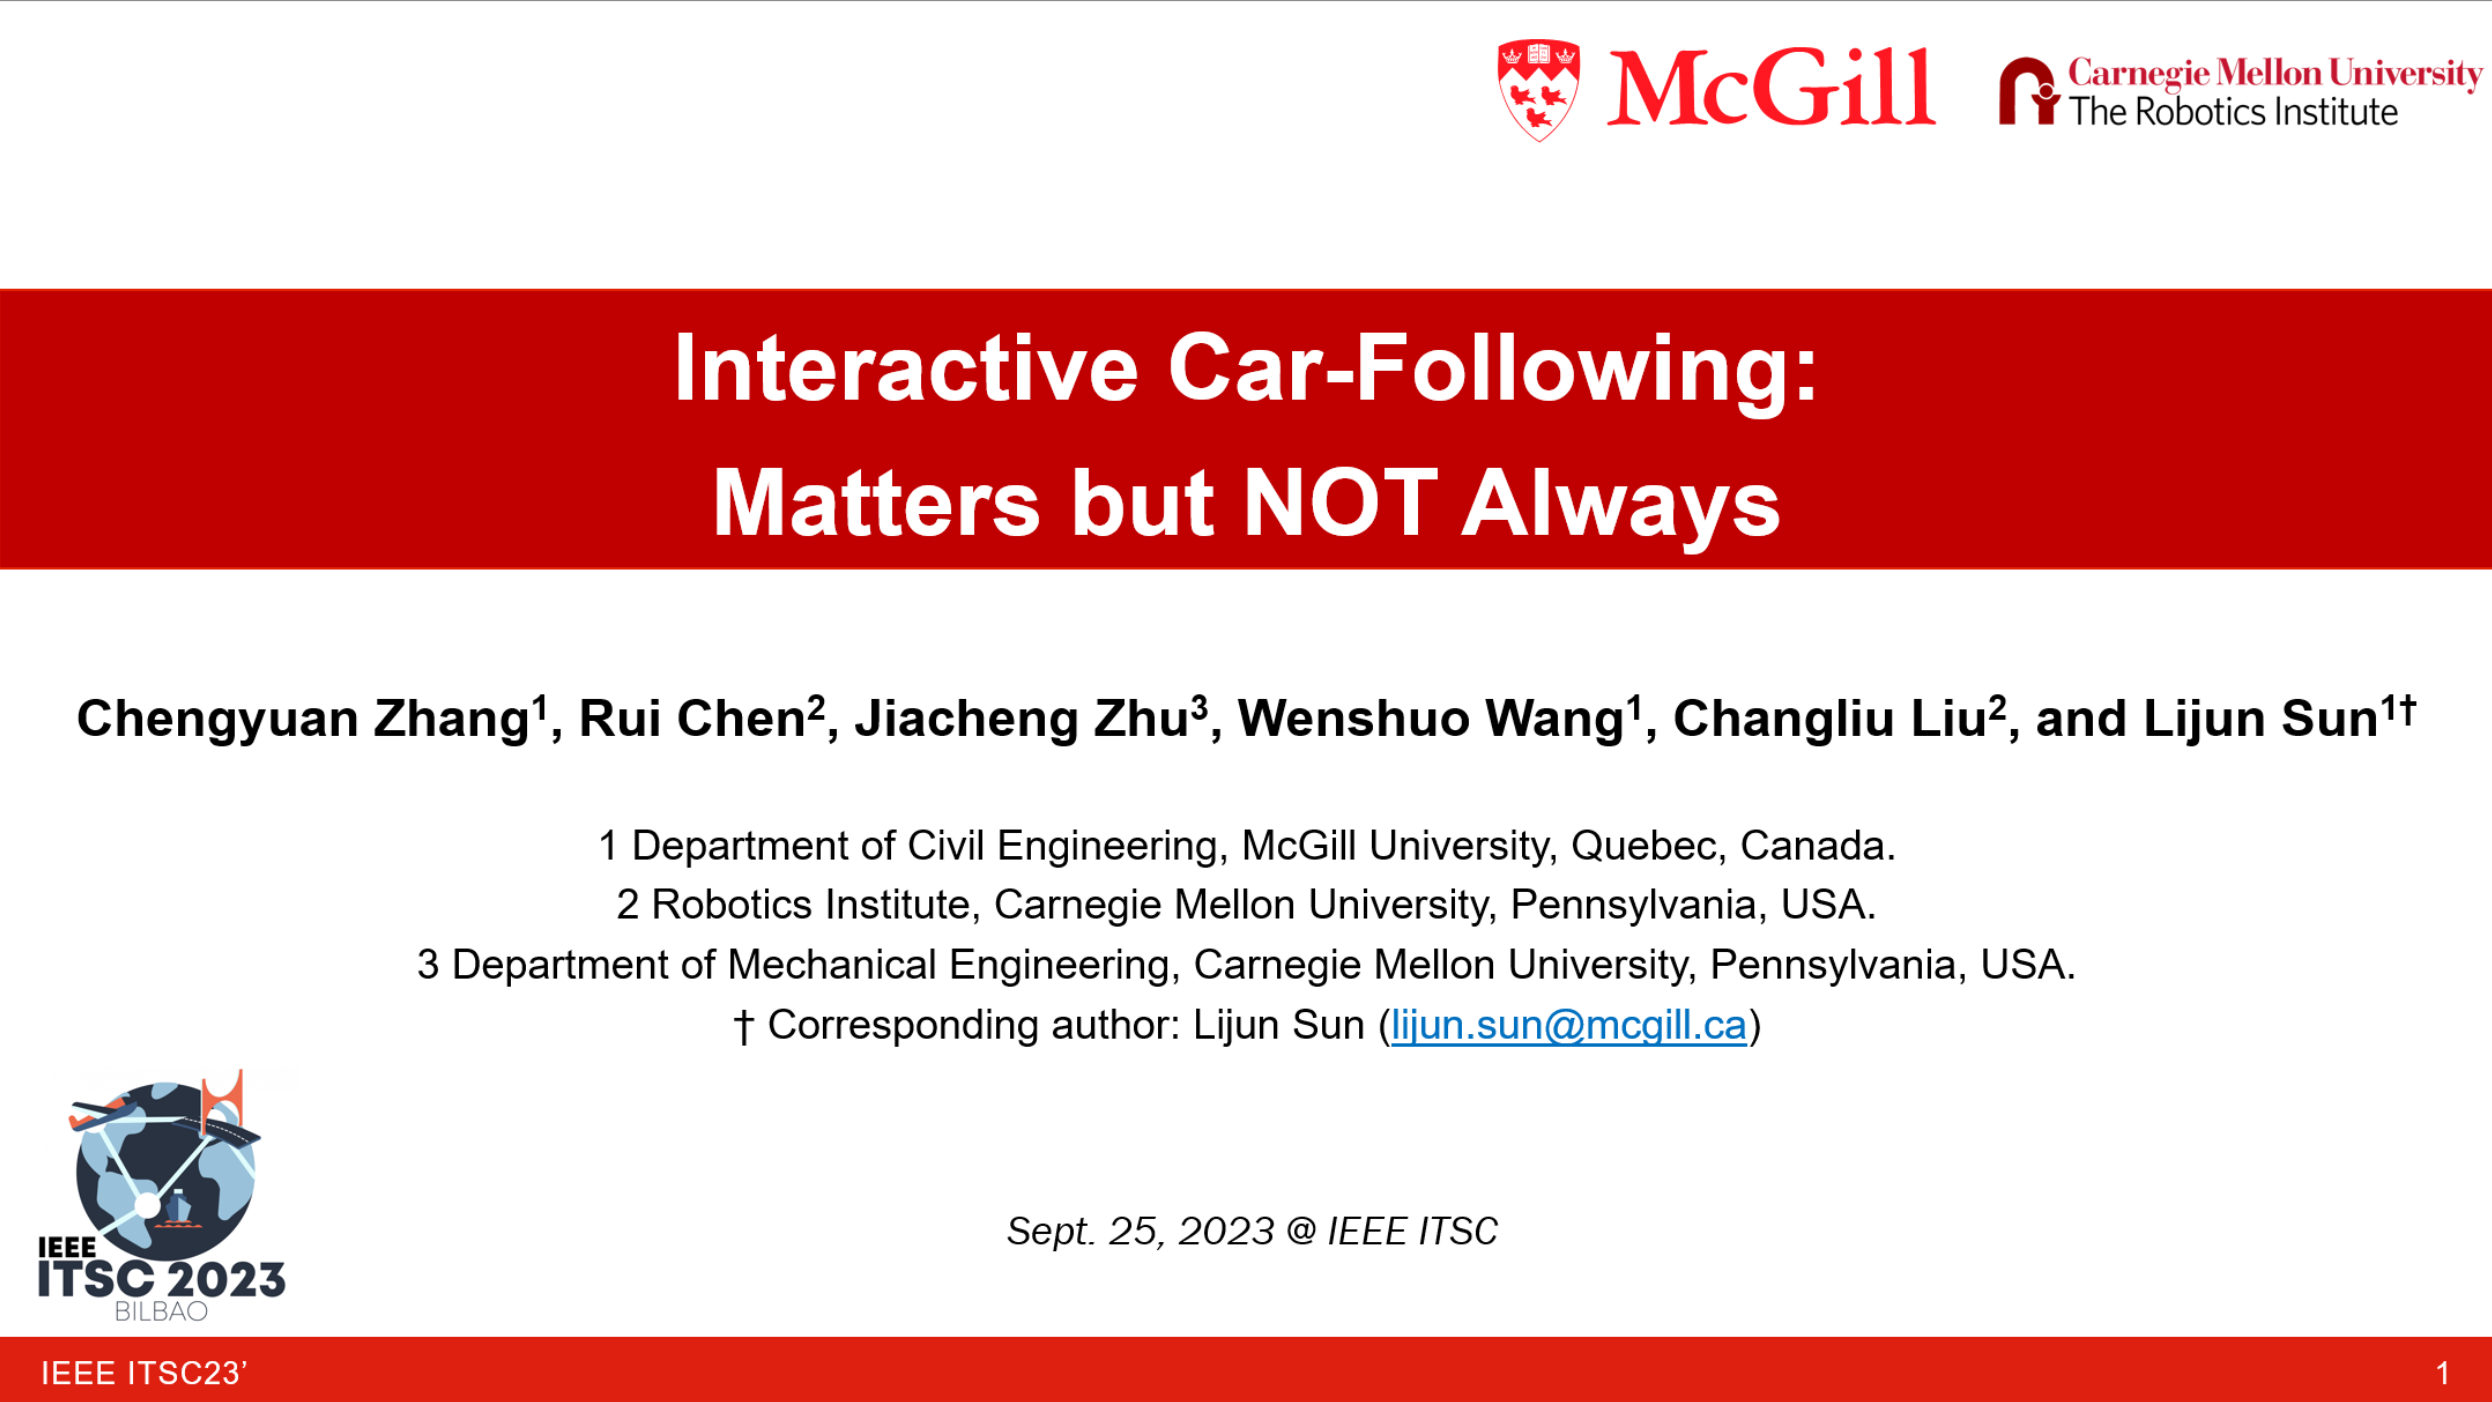
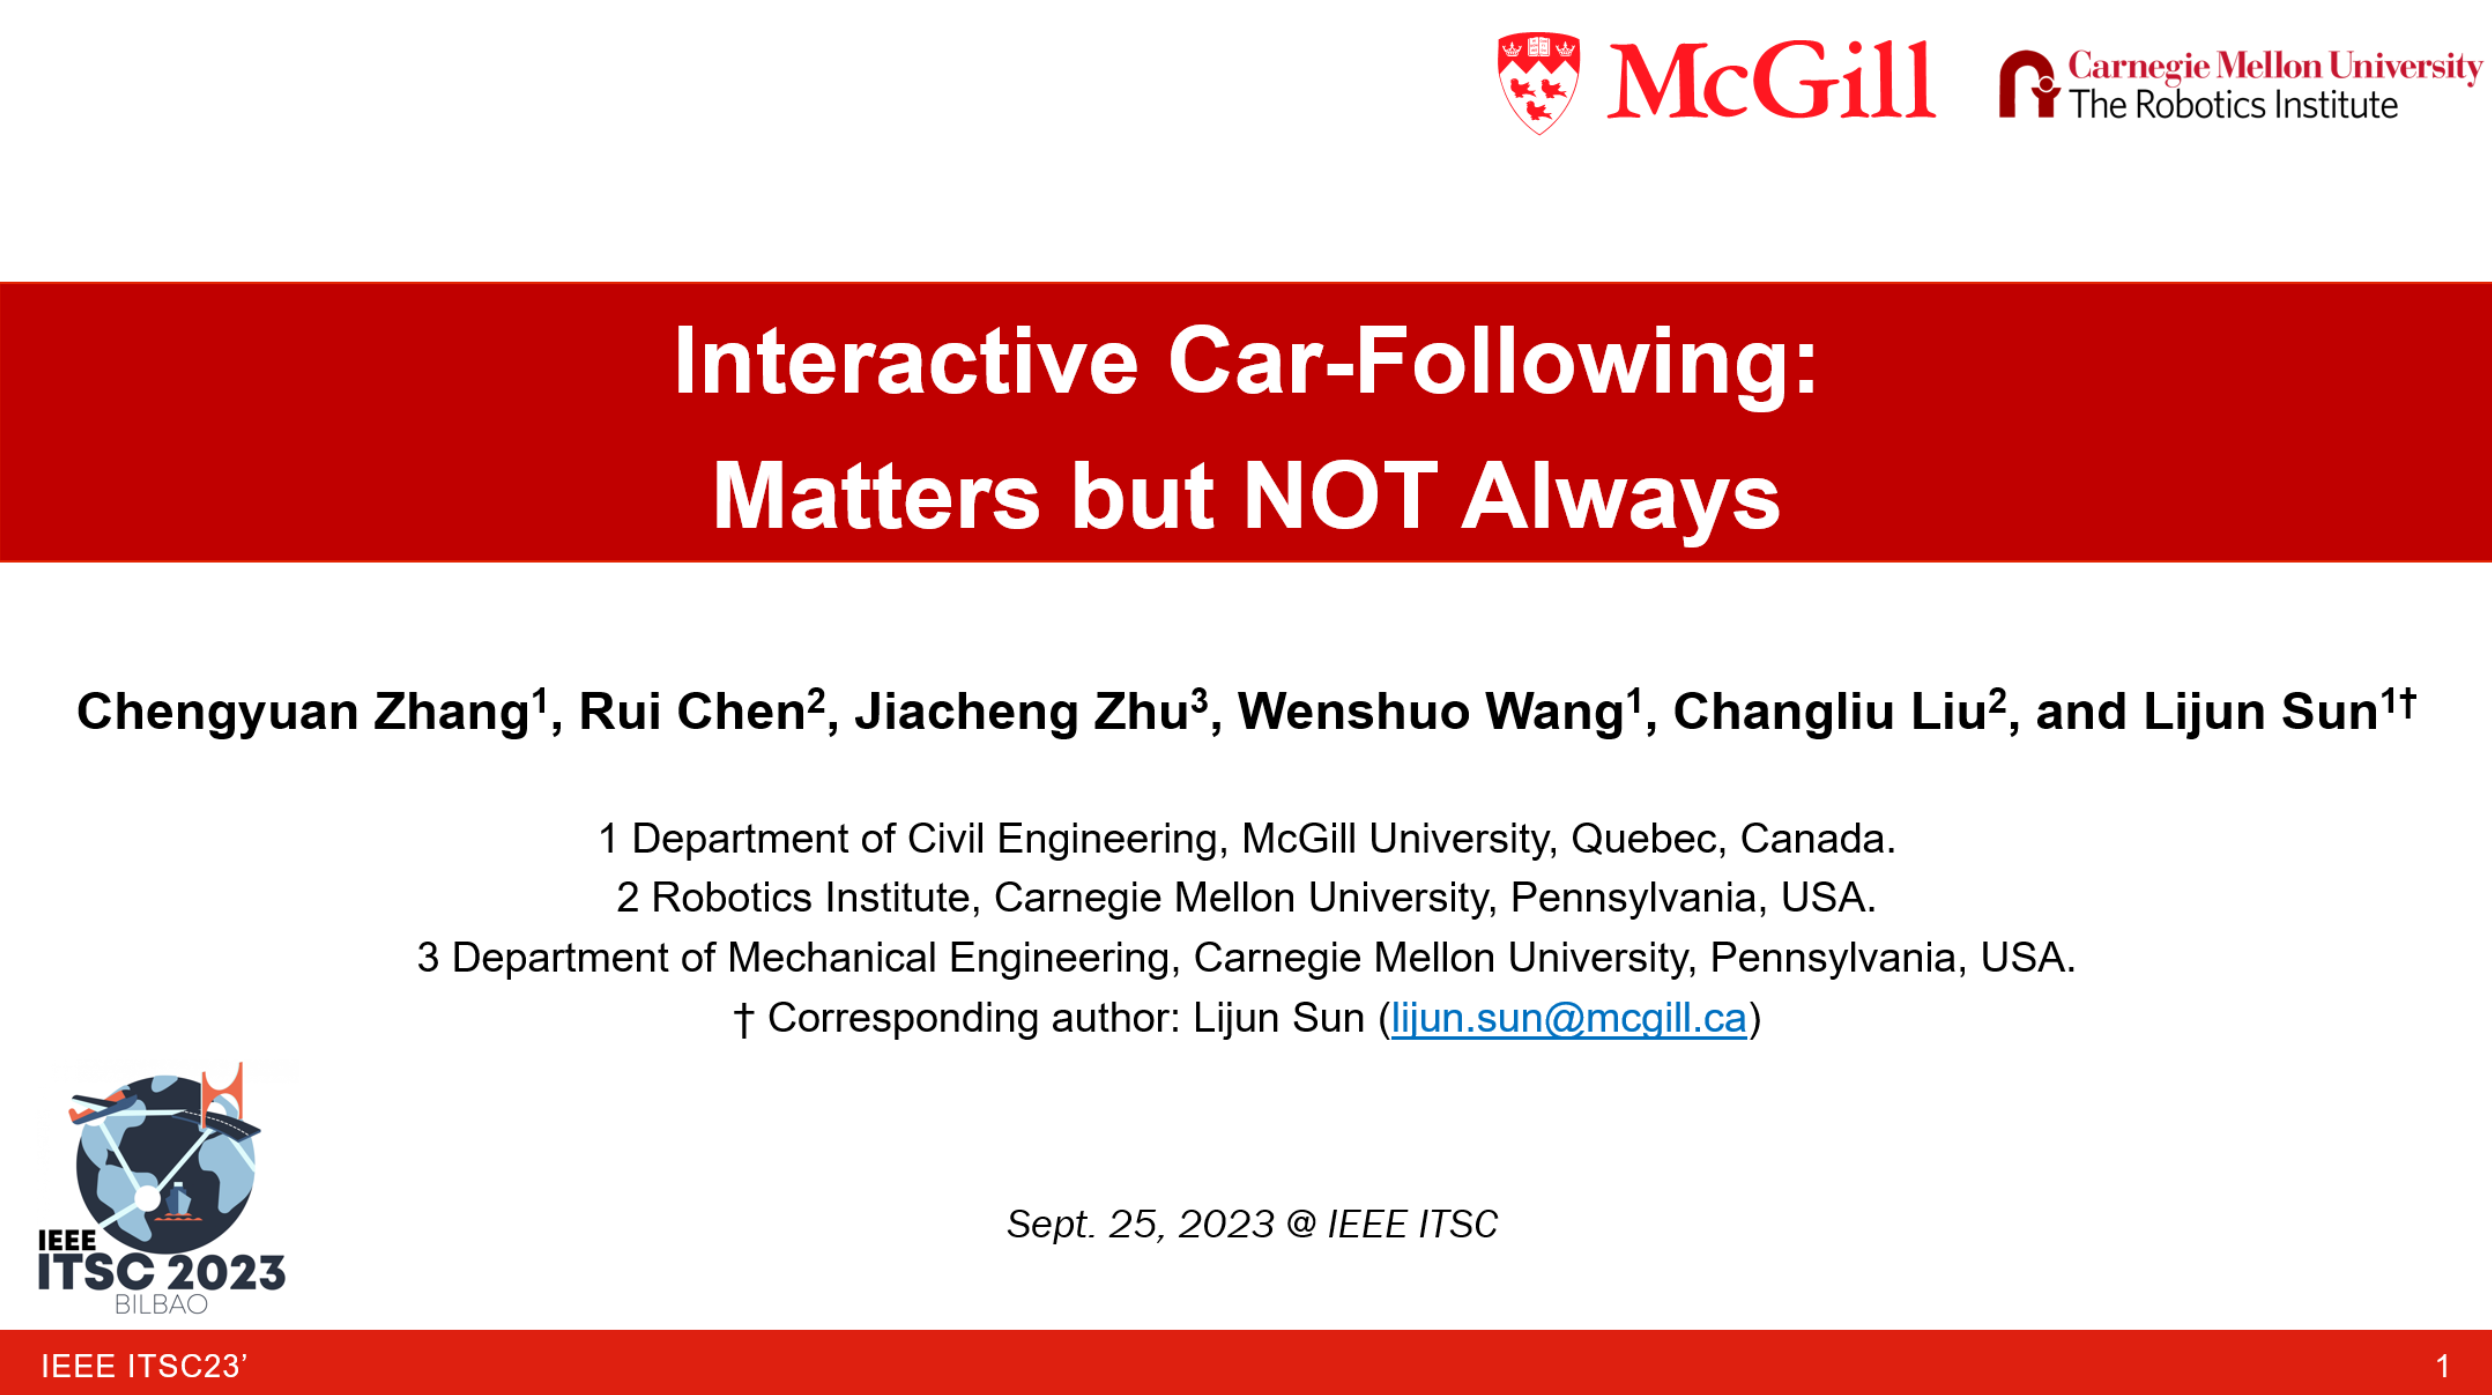
try

diff --git a/_pages/talks.md b/_pages/talks.md
@@ -17,20 +17,20 @@ June. 2024, Jeju Shinhwa World, Jeju Island, Korea \
 Conference Podium Presentation @ 35th IEEE Intelligent Vehicles Symposium (IEEE IV 2024)
 
 <center>
-  <img src="../images/iv24.png" width="70%" />
+  <img src="../images/iv24.png" width="75%" />
 </center>
 
 ## Interactive Car-Following: Matters but NOT Always
 Sept. 2023, Bilbao, Bizkaia, Spain \
 Conference Podium Presentation @ 26th IEEE International Conference on Intelligent Transportation Systems (IEEE ITSC 2023)
 <center>
-  <img src="../images/itsc2023.png" width="70%" />
+  <img src="../images/itsc2023.png" width="75%" />
 </center>
 
 ## Bayesian Calibration of the IDM
 Feb. 2023, Online\
 Invited Talk @ Traffic Flow Theory and Characteristics (ACP50) general webinar series [[flyer](../_talks/230217_Chengyuan_Zhang_Flyer.pdf)] [[recording](https://youtu.be/GIqcL6I7MsU)]
-<iframe width="640" height="400" src="https://www.youtube.com/embed/GIqcL6I7MsU" title="Chengyuan Zhang: Bayesian Calibration of the Intelligent Driver Model | TFTC General Webinar Series" frameborder="0" allow="accelerometer; autoplay; clipboard-write; encrypted-media; gyroscope; picture-in-picture; web-share" allowfullscreen></iframe>
+<iframe width="70%" src="https://www.youtube.com/embed/GIqcL6I7MsU" title="Chengyuan Zhang: Bayesian Calibration of the Intelligent Driver Model | TFTC General Webinar Series" frameborder="0" allow="accelerometer; autoplay; clipboard-write; encrypted-media; gyroscope; picture-in-picture; web-share" allowfullscreen></iframe>
 
 ## Bayesian Calibration of the IDM
 Jan. 2023, Washington, DC, US\
